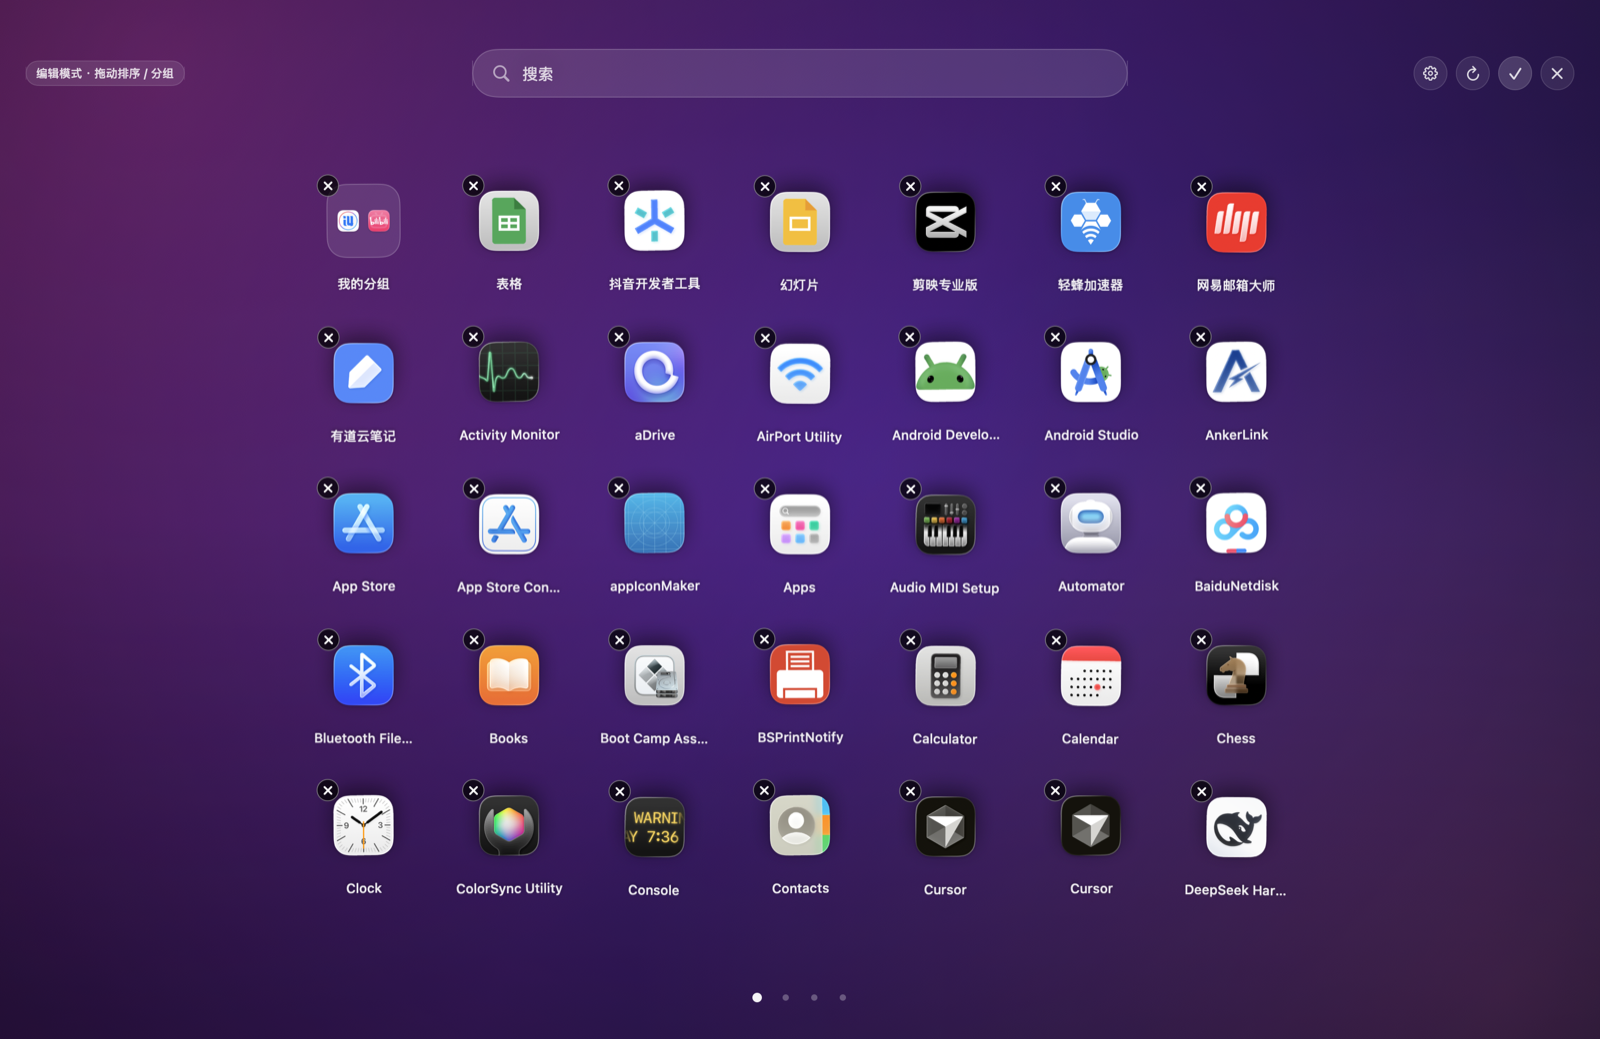
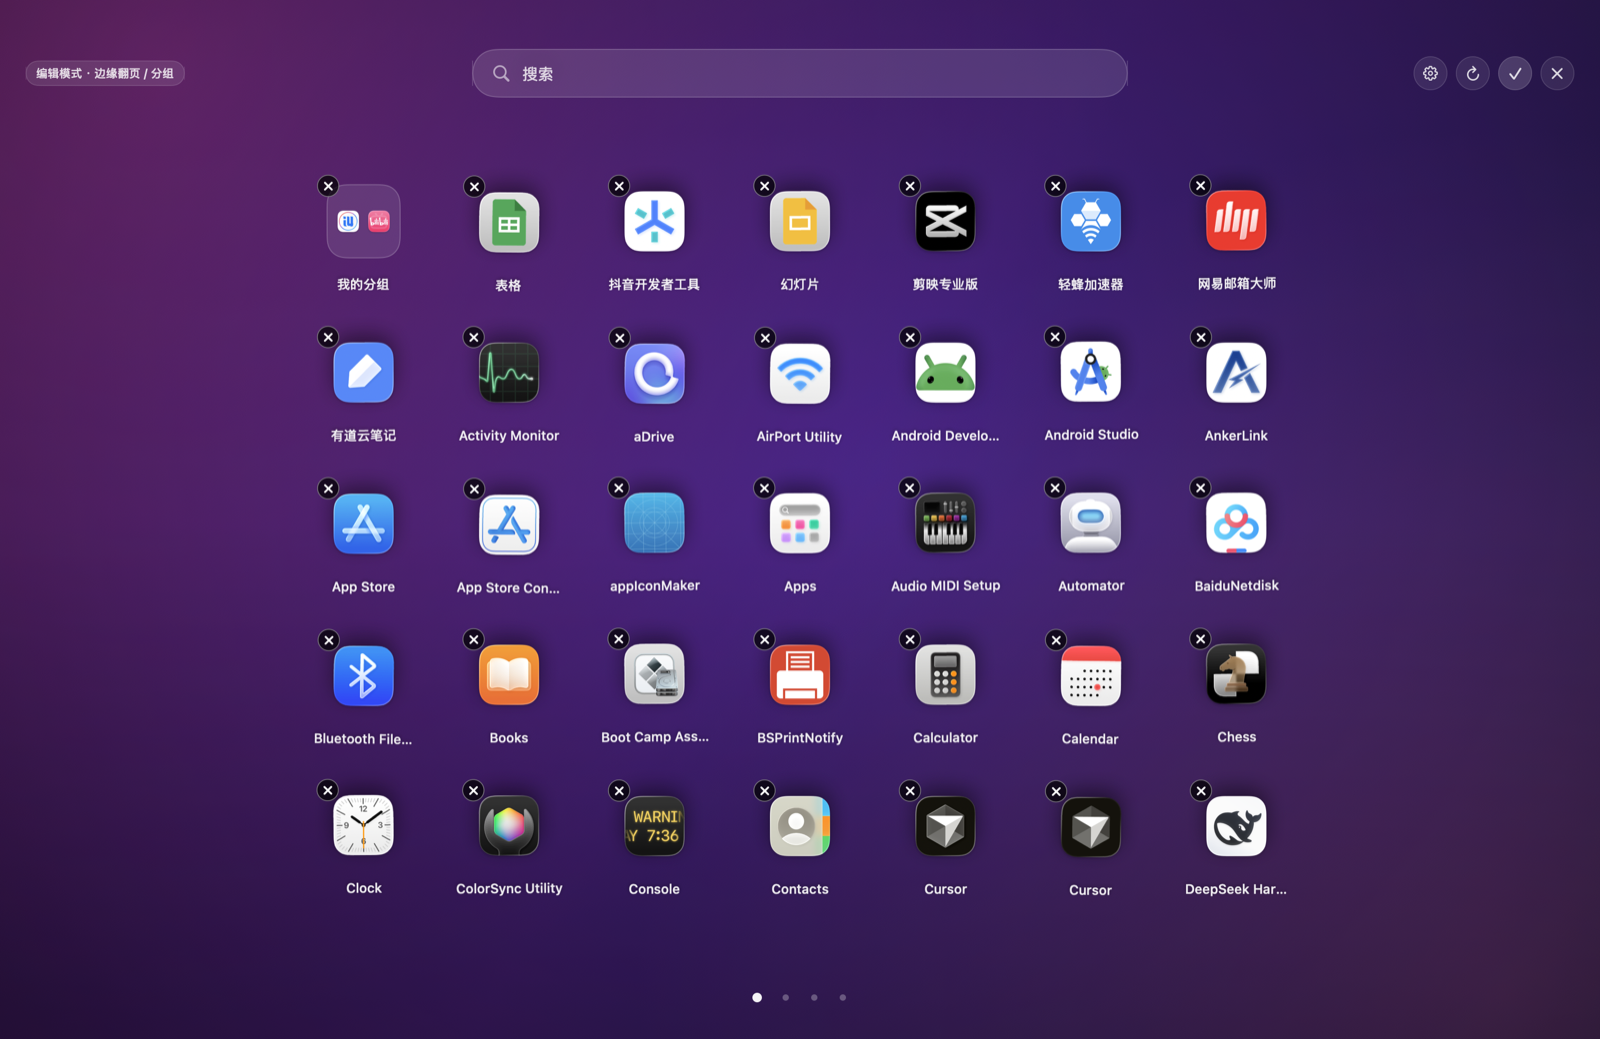
Remove long-press highlight and add cross-page dragging

diff --git a/Sources/DashboardView.swift b/Sources/DashboardView.swift
@@ -12,7 +12,8 @@ struct DashboardView: View {
     @State private var dropTargetID: String?
     @State private var reorderIndex: Int?
     @State private var insertionLine: DropLine?
-    @State private var longPressTileID: String?
+    @State private var pageFlipTask: Task<Void, Never>?
+    @State private var pageFlipLockedDirection: Int?
 
     var body: some View {
         ZStack {
@@ -59,13 +60,7 @@ struct DashboardView: View {
         .animation(.snappy(duration: 0.2), value: model.toast)
         .onPreferenceChange(TileFramePreferenceKey.self) { tileFrames = $0 }
         .onChange(of: model.isEditing) { _, editing in
-            if !editing { longPressTileID = nil }
-        }
-        .onChange(of: model.currentPage) { _, _ in
-            longPressTileID = nil
-        }
-        .onChange(of: model.searchText) { _, _ in
-            longPressTileID = nil
+            if !editing { resetPageFlip() }
         }
         .overlay(alignment: .topLeading) {
             ZStack(alignment: .topLeading) {
@@ -92,7 +87,7 @@ struct DashboardView: View {
 
             HStack(spacing: 8) {
                 if model.isEditing {
-                    Text("编辑模式 · 拖动排序 / 分组")
+                    Text("编辑模式 · 边缘翻页 / 分组")
                         .font(.system(size: 11, weight: .medium))
                         .foregroundStyle(.white.opacity(0.82))
                         .padding(.horizontal, 10)
@@ -362,7 +357,7 @@ struct DashboardView: View {
                     isSelected: model.selectedTileID == tile.id,
                     metrics: model.iconMetrics,
                     onOpen: { model.launch(path) },
-                    onEnterEdit: { enterEditing(from: tile.id) },
+                    onEnterEdit: { beginEditing() },
                     onRemove: { model.removeFromDashboard(path) },
                     onTrash: { model.moveToTrash(path) },
                     onReveal: { model.revealInFinder(path) }
@@ -370,7 +365,6 @@ struct DashboardView: View {
 
                 base
                     .modifier(TileFrameReader(id: tile.id))
-                    .overlay { longPressHighlight(for: tile.id) }
                     .overlay { dropHighlight(for: tile.id) }
                     .simultaneousGesture(dragGesture(for: tile))
             }
@@ -388,35 +382,18 @@ struct DashboardView: View {
                         model.openedFolderID = folder.id
                     }
                 },
-                onEnterEdit: { enterEditing(from: tile.id) },
+                onEnterEdit: { beginEditing() },
                 onDissolve: { model.dissolveFolder(id: folder.id) }
             )
             .modifier(TileFrameReader(id: tile.id))
-            .overlay { longPressHighlight(for: tile.id) }
             .overlay { dropHighlight(for: tile.id) }
             .simultaneousGesture(dragGesture(for: tile))
         }
     }
 
-    private func enterEditing(from tileID: String) {
+    private func beginEditing() {
         if !model.isEditing {
             model.toggleEditing()
-        }
-        model.selectedTileID = nil
-        longPressTileID = tileID
-    }
-
-    @ViewBuilder
-    private func longPressHighlight(for id: String) -> some View {
-        if longPressTileID == id && model.selectedTileID != id {
-            RoundedRectangle(cornerRadius: 22, style: .continuous)
-                .fill(Color.white.opacity(0.055))
-                .overlay {
-                    RoundedRectangle(cornerRadius: 22, style: .continuous)
-                        .strokeBorder(Color.white.opacity(0.18), lineWidth: 1)
-                }
-                .allowsHitTesting(false)
-                .transition(.opacity)
         }
     }
 
@@ -454,6 +431,7 @@ struct DashboardView: View {
                 let groupTarget = dropTargetID
                 let index = reorderIndex
 
+                resetPageFlip()
                 withAnimation(.snappy(duration: 0.14)) {
                     dragTile = nil
                     dropTargetID = nil
@@ -473,7 +451,59 @@ struct DashboardView: View {
             }
     }
 
+    private func updateEdgePageFlip(at point: CGPoint) {
+        let width = NSApp.keyWindow?.frame.width ?? NSScreen.main?.frame.width ?? 1512
+        let direction: Int
+        if point.x < 64 {
+            direction = -1
+        } else if point.x > width - 64 {
+            direction = 1
+        } else {
+            direction = 0
+        }
+
+        guard direction != 0 else {
+            pageFlipLockedDirection = nil
+            cancelPageFlip()
+            return
+        }
+
+        let canFlip = direction > 0
+            ? model.currentPage < model.pageCount - 1
+            : model.currentPage > 0
+        guard canFlip else {
+            cancelPageFlip()
+            return
+        }
+        guard pageFlipLockedDirection != direction, pageFlipTask == nil else { return }
+
+        pageFlipTask = Task { @MainActor in
+            try? await Task.sleep(nanoseconds: 700_000_000)
+            guard !Task.isCancelled, dragTile != nil else { return }
+            pageFlipTask = nil
+            pageFlipLockedDirection = direction
+            withAnimation(.spring(response: 0.3, dampingFraction: 0.86)) {
+                if direction > 0 {
+                    model.nextPage()
+                } else {
+                    model.previousPage()
+                }
+            }
+        }
+    }
+
+    private func cancelPageFlip() {
+        pageFlipTask?.cancel()
+        pageFlipTask = nil
+    }
+
+    private func resetPageFlip() {
+        cancelPageFlip()
+        pageFlipLockedDirection = nil
+    }
+
     private func updateDropTarget(at point: CGPoint, source: Tile) {
+        updateEdgePageFlip(at: point)
         let pageTiles = model.tiles(on: model.currentPage)
         guard !pageTiles.isEmpty else {
             clearDropTarget()

diff --git a/Sources/FolderOverlay.swift b/Sources/FolderOverlay.swift
@@ -10,7 +10,6 @@ struct FolderOverlay: View {
     @State private var draggedPath: String?
     @State private var dragLocation: CGPoint = .zero
     @State private var isOutside = false
-    @State private var longPressedPath: String?
 
     private let columns = [GridItem(.adaptive(minimum: 100, maximum: 116), spacing: 14)]
 
@@ -75,9 +74,6 @@ struct FolderOverlay: View {
         }
         .coordinateSpace(name: "folderOverlay")
         .onPreferenceChange(FolderFramePreferenceKey.self) { cardFrame = $0 }
-        .onChange(of: model.isEditing) { _, editing in
-            if !editing { longPressedPath = nil }
-        }
     }
 
     private var header: some View {
@@ -154,17 +150,6 @@ struct FolderOverlay: View {
                                 active: model.isEditing,
                                 seed: Double(abs(path.hashValue % 6)) * 0.18
                             ))
-                            .overlay {
-                                if longPressedPath == path {
-                                    RoundedRectangle(cornerRadius: 17, style: .continuous)
-                                        .fill(Color.white.opacity(0.06))
-                                        .overlay {
-                                            RoundedRectangle(cornerRadius: 17, style: .continuous)
-                                                .strokeBorder(Color.white.opacity(0.18), lineWidth: 1)
-                                        }
-                                        .allowsHitTesting(false)
-                                }
-                            }
                             .simultaneousGesture(
                                 LongPressGesture(minimumDuration: 1.0).onEnded { _ in
                                     NSHapticFeedbackManager.defaultPerformer.perform(
@@ -172,8 +157,6 @@ struct FolderOverlay: View {
                                         performanceTime: .now
                                     )
                                     model.isEditing = true
-                                    model.selectedTileID = nil
-                                    longPressedPath = path
                                 }
                             )
                             .simultaneousGesture(folderDragGesture(path))

diff --git a/PLAN.md b/PLAN.md
@@ -25,7 +25,7 @@
 | 点击 Dashboard 时读取本机软件列表 | ✅ | `FileManager` 枚举 `/Applications`、`/System/Applications`、`~/Applications`，用 `Bundle` 读取 `CFBundleIdentifier` / 名称 |
 | 显示 App 图标 | ✅ | `NSWorkspace.shared.icon(forFile:)`，内存缓存 |
 | 点击图标启动 App | ✅ | `NSWorkspace.shared.openApplication(at:configuration:)` |
-| 长按进入编辑模式 | ✅ | SwiftUI 长按手势 + 抖动动画 + 淡白色选中底 |
+| 长按进入编辑模式 | ✅ | SwiftUI 长按手势 + 抖动动画 + × 按钮 |
 | 拖拽一个 App 到另一个 App 上分组 | ✅ | 自研 `DragGesture` + 控件帧命中（不使用系统 `dropDestination`，避免离屏渲染出现禁用角标） |
 | 拖动排序 | ✅ | App 和文件夹格子都可拖到边缘/空隙插入，显示插入线；页内排序 |
 | 删除（从面板移除） | ✅ | 修改本地布局 JSON；不会卸载 App，符合旧版 Dashboard 语义 |
@@ -50,7 +50,7 @@
 4. **沙盒版（Mac App Store）能力受限。** App Sandbox 下无法自由枚举 `/Applications`，建议 Developer ID 直接分发（不开启 App Sandbox）。
 5. **旧版 `.wdgt` 小组件不能直接复用。** 如果后续要“小组件”而不仅是 App 图标，需要用 WidgetKit 重写，或嵌入 Web 内容。当前需求不涉及。
 6. **多显示器 / 全屏 App 上的表现**是近似实现；面板默认出现在鼠标所在屏幕，覆盖全屏 App 需要额外适配。
-7. **跨页拖拽分组未实现。** 分组需要先把两个 App 翻到同一页；后续可加拖动到边缘自动翻页。
+7. **跨页拖动已实现。** 拖动到页面左右边缘停留约 0.7 秒自动翻页，可继续拖到目标页完成排序或分组。
 
 ---
 
@@ -109,7 +109,7 @@ Layout    { tiles: [Tile], hidden: Set<String> }
 | 操作 | 行为 |
 |---|---|
 | 点击 App 图标 | 启动 App，并收起 Dashboard |
-| 长按图标 1s | 进入编辑模式，图标开始轻微抖动，并显示淡白色选中底 |
+| 长按图标 1s | 进入编辑模式，图标开始轻微抖动并显示 × |
 | 编辑模式下拖拽 A 到 B 的中心 | 合成文件夹（默认名“新建文件夹”），可重命名 |
 | 拖拽 App 到文件夹 | 加入该文件夹 |
 | 拖拽到图标边缘 / 空隙 | 插入排序，显示白色插入线 |
@@ -125,7 +125,7 @@ Layout    { tiles: [Tile], hidden: Set<String> }
 | 点文件夹 | 打开文件夹弹层；点名称可直接改名 |
 | 编辑模式点 ×（App） | 从面板移除，不卸载；Toast 明确提示 |
 | 编辑模式点 ×（文件夹） | 解散文件夹，成员回到网格 |
-| 文件夹内长按图标 1 秒 | 进入编辑模式，图标抖动、显示 × 和淡白色选中底 |
+| 文件夹内长按图标 1 秒 | 进入编辑模式，图标抖动并显示 × |
 | 文件夹内点 × / 拖到弹层外 | 移出文件夹，回到网格；只剩 1 个时自动解散 |
 | 右键 App | 打开 / 在访达中显示 / 从面板移除 / 移到废纸篓（系统 App 禁止） |
 | Esc | 依次关闭文件夹 → 退出编辑 → 收起面板 |
@@ -164,9 +164,10 @@ Layout    { tiles: [Tile], hidden: Set<String> }
 
 - [x] 启动后展示本机 App 图标（本机去重后 132 个，原始枚举 139 份）
 - [x] 点击图标走 `NSWorkspace.openApplication`（已接线；启动外部 App 未做自动化点击）
-- [x] 长按 1s 进入编辑模式，图标抖动并显示淡白色选中底（已实现）
+- [x] 长按 1s 进入编辑模式，图标抖动并显示 ×（已实现）
 - [x] 编辑模式下拖拽 A 到 B 生成文件夹（手势 + 命中逻辑已实现，数据层自测通过）
 - [x] 文件夹格子可拖动排序（数据层自测通过）
+- [x] 拖动到页面左右边缘可自动翻页并跨页放置
 - [x] 拖动到边缘/空隙可插入排序，不足一页时内容靠上（数据层自测 + 运行时）
 - [x] 文件夹可打开、改名、长按 1 秒进入编辑抖动、移出成员、解散；拖出弹层可用；只剩 1 个成员自动解散（数据层自测通过）
 - [x] `Tab` 依次选择，最后一个之后回到第一个；`Shift+Tab` 反向（合成按键测试通过）
